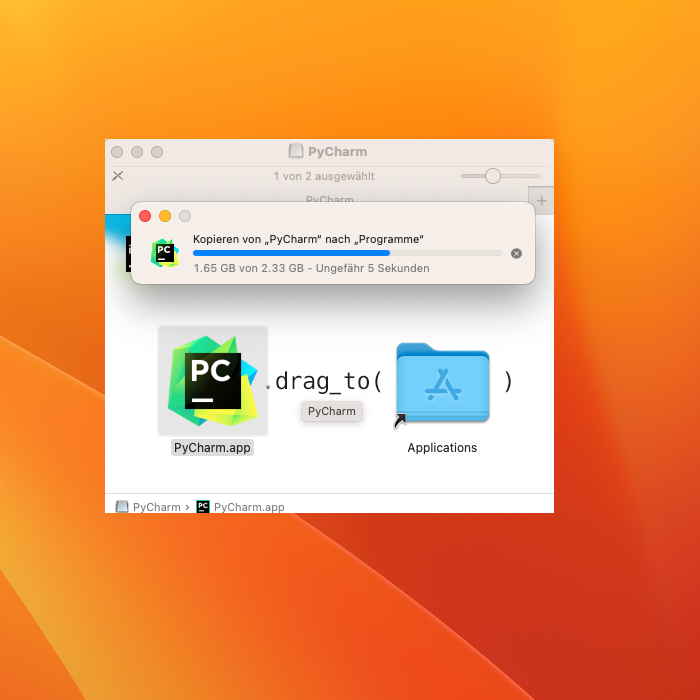
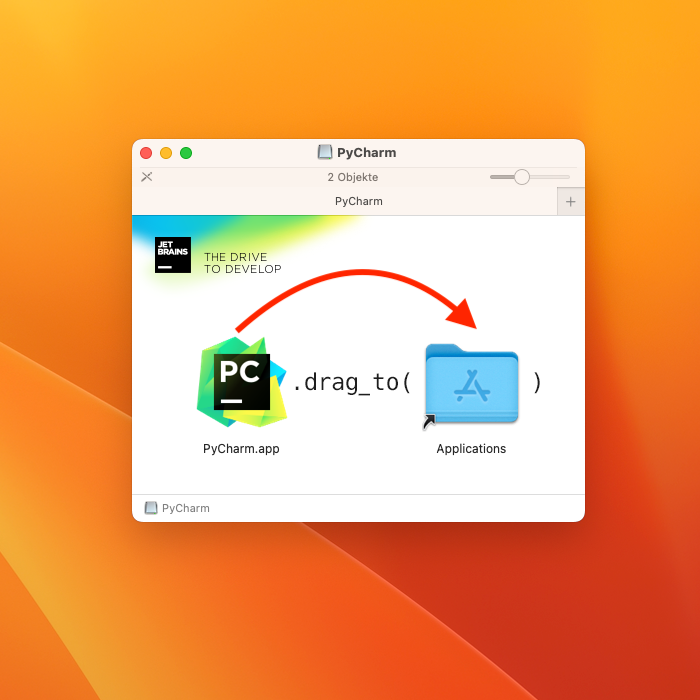
WIP

diff --git a/phpstorm/windows.php b/phpstorm/windows.php
@@ -1,0 +1,28 @@
+<?php
+global $os;
+$steps = [
+    'Rufen Sie die Website von <a target="_blank" href="https://www.jetbrains.com">JetBrains</a> auf. Klicken Sie dort mit der Maus auf <q>Developer Tools</q>.',
+    'Wählen Sie unter <q>Developer Tools</q> das Produkt <q>PhpStorm</q> aus.',
+    'Klicken Sie nun auf <q>Download now</q>.',
+    'Warten Sie, bis der Download beginnt.',
+    'Warten Sie, bis der Download abgeschlossen ist.',
+    'Öffnen Sie das <q>Download-Menü</q>, indem Sie auf <span class="icon"><i class="fa-solid fa-download"></i></span> klicken. Klicken Sie dann auf <span class="icon"><i class="fa-solid fa-arrow-up-right-from-square"></i></span> (<q>Öffnen</q>), um die Installation zu starten.',
+    'Erlauben Sie die Installation, indem Sie auf <q>Ja</q> klicken.',
+    'Klicken Sie auf <q>Next</q>.',
+    'Klicken Sie erneut auf <q>Next</q>.',
+    'Wählen Sie <b>zuerst</b> <q>PhpStorm</q>, <q>.php</q>, <q>.css</q> und <q>.html</q> aus und klicken Sie <b>dann</b> auf <q>Next</q>.',
+    'Klicken Sie auf <q>Install</q>.',
+    'Warten, bis die Installation abgeschlossen ist.',
+    'Wählen Sie <b>zuerst</b> <q>Run PhpStorm</q> aus. Beenden Sie <b>dann</b> die Installation, indem Sie auf <q>Finish</q> klicken.',
+    'Falls Sie einen Dialog zum <q>User Agreement</q> sehen, dann übernehmen Sie die Einstellungen aus dem Bild. Klicken Sie anschliessend auf <q>Continue</q>.',
+    "Falls Sie einen Dialog zu <q>Data Sharing</q> sehen, dann fahren Sie mit einem Klick auf <q>Don't Send</q> fort.",
+    "Falls Sie einen Dialog zu <q>Import PhpStorm Settings</q> sehen, dann wählen Sie <q>Do not import settings</q> aus. Klicken Sie anschliessend auf <q>OK</q>.",
+    "Das Einrichten ist nun beendet. Schliessen Sie das Programm mit einem Klick auf <q>Exit</q>."
+];
+$fullOs = "Windows 11";
+$browser = "Google Chrome";
+$osExample = "Windows 10";
+$browserExample = "Microsoft Edge";
+$numberOfSteps = count($steps);
+include("hinweis.php");
+include("steps.php");

diff --git a/pycharm/macos.php b/pycharm/macos.php
@@ -13,9 +13,10 @@ if ($version == "pro") {
         'Erlauben Sie den Download.',
         'Warten Sie, bis der Download abgeschlossen ist.',
         'Öffnen Sie die heruntergeladene Datei, um die Installation zu starten.',
+        'Blenden Sie die <b>Pfadleiste</b> ein. Klicken Sie dazu in die Titelleiste <q>PyCharm</q>, dann im Menü auf <q>Darstellung</q> und anschliessend auf <q>Pfadleiste einblenden</q>.',
         'Installieren Sie das Programm, indem Sie das PyCharm-Icon mit gedrückter Maustaste auf das Applications-Icon ziehen.',
         'Warten Sie, bis macOS den Kopiervorgang abgeschlossen hat.',
-        'Werfen Sie das Image aus. Klicken Sie dazu mit der rechten Maustaste auf das Disc-Icon und wählen Sie <q>PyCharm auswerfen</q> aus.',
+        'Werfen Sie das Image aus. Klicken Sie dazu mit der rechten Maustaste (<q>control</q>-Taste gedrückt halten und dann <q>klicken</q>) auf das Disc-Icon und wählen Sie <q>PyCharm auswerfen</q> aus.',
         'Starten Sie <q>PyCharm</q> über das Launchpad.',
         'Warten Sie, bis das Programm geladen ist.',
         'Bestätigen Sie das Öffnen des Programms, indem Sie auf <q>Öffnen</q> klicken.',
@@ -35,6 +36,7 @@ if ($version == "pro") {
         'Erlauben Sie den Download.',
         'Warten Sie, bis der Download abgeschlossen ist.',
         'Öffnen Sie die heruntergeladene Datei, um die Installation zu starten.',
+        'Blenden Sie die <b>Pfadleiste</b> ein. Klicken Sie dazu in die Titelleiste <q>PyCharm CE</q>, dann im Menü auf <q>Darstellung</q> und anschliessend auf <q>Pfadleiste einblenden</q>.',
         'Installieren Sie das Programm, indem Sie das PyCharm-Icon mit gedrückter Maustaste auf das Applications-Icon ziehen.',
         'Warten Sie, bis macOS den Kopiervorgang abgeschlossen hat.',
         'Werfen Sie das Image aus. Klicken Sie dazu mit der rechten Maustaste auf das Disc-Icon und wählen Sie <q>PyCharm CE auswerfen</q> aus.',

diff --git a/pycharm/footer.php b/pycharm/footer.php
@@ -36,7 +36,7 @@ function echoDatenschutzTags(): void
         Der Inhalt der Website ist lizenziert <a href="https://creativecommons.org/licenses/by-nc-sa/4.0/">CC BY NC SA
             4.0</a>.
         <br>
-        Letzte Aktualisierung: 2023-08-09
+        Letzte Aktualisierung: 2023-10-10
     </p>
 </div>
 <div class="columns is-centered is-hidden-mobile">
